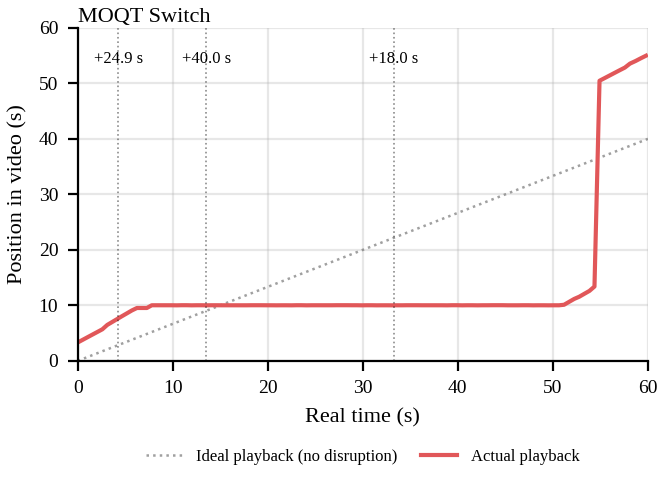
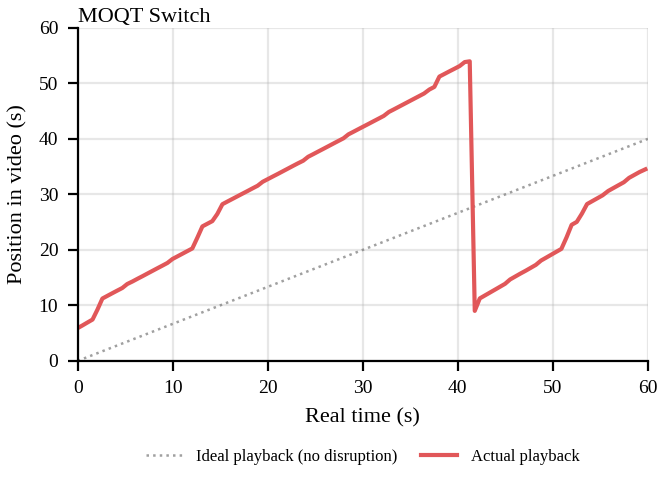
fix(client): coalesce duplicate Switches under multi-pending interleaving
Track the in-flight Switch's target track-name in AbrController so a second
ABR tick (or force-switch) can't fire a parallel Switch to the same target
while the relay is still delivering the first one. Pair this with a
per-target pendingSwitches Map in Player so each switch's discontinuity
context (playheadPTS, switchSentAt, framesAtSwitch) survives later switches
firing — preventing the "Switch K's playheadPTS paired against Switch J's
first-arriving frame" misattribution that broke the per-switch playhead-gap
invariant under rapid A→B→C transitions.

Also keep MOQtailClient's subscriptionAliasMap in lockstep with the Switch
control message: alias the new requestId to the still-valid old trackAlias
on send, then rebind to the real new trackAlias when SubscribeOk arrives.
Without this, any re-entry on the new requestId before the rebind callback
fires throws InternalError and the catch handler tears down the client.

Bumps SWITCH_TIMEOUT_MS from 3 s to 30 s so legitimately-slow segment
delivery on the lowest tier under bandwidth pressure (observed 17 s in the
E2 0.5 Mbps dip) doesn't trip the guard release while data is still in
flight. Simplifies buffer.ts's seek-across-gap recovery to a minimal walk
of post-current ranges; live-edge alignment is the catch-up loop's job.

diff --git a/apps/client-js/src/lib/buffer.ts b/apps/client-js/src/lib/buffer.ts
@@ -17,7 +17,6 @@
 import { logger } from '@/lib/logger';
 
 // MSE Buffer Configuration
-export const MSE_IMMEDIATE_SEEK_THRESHOLD = 0.1; // seconds
 export const DEFAULT_LIVE_EDGE_DELAY = 1.25; // seconds
 export const DEFAULT_LIVE_EDGE_TOLERANCE = 0.1; // seconds
 export const DEFAULT_BUFFER_CHECK_INTERVAL = 250; // milliseconds
@@ -243,51 +242,21 @@ class MSEBuffer {
     // Only consider seeking if we're very close to the end (within threshold)
     if (distanceToEnd > this.config.stallThreshold) return { seek: false };
 
-    // Check if there's a next buffered range
-    if (currentRangeIndex + 1 < buffered.length) {
-      for (let nextRange = currentRangeIndex + 1; nextRange < buffered.length; nextRange++) {
-        const nextRangeStart = buffered.start(currentRangeIndex + 1);
-        const gap = nextRangeStart - currentRangeEnd;
-
-        // If gap is too small, seek to next range immediately
-        if (gap < MSE_IMMEDIATE_SEEK_THRESHOLD) {
-          logger.info(
-            'buffer',
-            `[mseBuffer] Small gap of ${gap.toFixed(3)}s to next range, seeking immediately`,
-          );
-          return { seek: true, targetTime: nextRangeStart };
-        }
-
-        // Next range must have enough buffer to jump to
-        const nextRangeEnd = buffered.end(currentRangeIndex + 1);
-        const nextRangeDuration = nextRangeEnd - nextRangeStart;
-
-        if (nextRangeDuration < this.config.stallThreshold) {
-          logger.warn(
-            'buffer',
-            `[mseBuffer] Next range too short (${nextRangeDuration.toFixed(3)}s), not seeking`,
-          );
-          continue;
-        }
-
-        if (nextRangeDuration < this.config.liveEdgeDelay) {
-          logger.warn(
-            'buffer',
-            `[mseBuffer] Next range shorter than live edge delay (${nextRangeDuration.toFixed(
-              3,
-            )}s < ${this.config.liveEdgeDelay}s), not seeking`,
-          );
-          continue;
-        }
-
-        if (gap > 0) {
-          logger.warn(
-            'buffer',
-            `[mseBuffer] At buffer end with gap of ${gap.toFixed(3)}s, must jump to next range`,
-          );
-          return { seek: true, targetTime: nextRangeStart };
-        }
-      }
+    // Recovery: walk every range past the current one and seek to the first
+    // playable one. Stays minimal — live-edge alignment is the catch-up loop's
+    // job, not this function's.
+    for (let i = currentRangeIndex + 1; i < buffered.length; i++) {
+      const nextStart = buffered.start(i);
+      const nextEnd = buffered.end(i);
+      if (nextEnd - nextStart <= 0) continue;
+      const gap = nextStart - currentRangeEnd;
+      logger.info(
+        'buffer',
+        `[mseBuffer] Seeking across ${gap.toFixed(3)}s gap to range ${nextStart.toFixed(
+          3,
+        )}-${nextEnd.toFixed(3)}s`,
+      );
+      return { seek: true, targetTime: nextStart + 0.001 };
     }
 
     return { seek: false };

diff --git a/apps/client-js/src/lib/player.ts b/apps/client-js/src/lib/player.ts
@@ -134,7 +134,20 @@ interface MOQStreamStruct {
   requestId: bigint;
   tracker: GoodputTracker;
   lastGroupId: bigint;
-  pendingSwitch: PendingSwitch | null;
+  /**
+   * In-flight Switch contexts keyed by target trackName. Multiple Switches can
+   * be live at once (rapid ABR re-evaluation, or one-RTT cache-replay lag where
+   * Switch N+1 fires while Switch N's first frame hasn't decoded). The writer
+   * pairs each incoming object's track name to its OWN Switch context so the
+   * discontinuity record's `playheadPTS_ms` and `newStartPTS_ms` come from the
+   * SAME Switch — preventing the "Switch K's playheadPTS paired against Switch
+   * J's first-arriving frame" misattribution that breaks the per-switch
+   * playhead-gap invariant under multi-switch interleaving.
+   *
+   * Map identity also lets the writer cull older pendings when it applies a
+   * newer one (data for stale targets is dropped instead of seeking backward).
+   */
+  pendingSwitches: Map<string, PendingSwitch>;
   /** End PTS (ms) of the last appended segment from the active track. Updated before each appendBuffer call. Undefined until the first segment is appended. */
   lastAppendedEndPTS_ms: number | undefined;
   /** Set true after the first frame is rendered post-switch. Reset when pendingSwitch is set. Used by C5 (perceivedPauseMs). */
@@ -580,24 +593,22 @@ export class Player {
             // decode and stall MSE.
             const objectTrackName = new TextDecoder().decode(object.fullTrackName.name);
 
-            // Drop anything that isn't the current track or the pending
-            // switch target. Covers two cases:
-            //   1. Rapid ABR switching (A→B→C) where intermediate-track data
-            //      arrives after pendingSwitch was overwritten to C.
-            //   2. Old-track trailing packets delivered after a switch has
-            //      already activated and pendingSwitch was cleared.
-            if (
-              objectTrackName !== struct.trackName &&
-              objectTrackName !== struct.pendingSwitch?.trackName
-            ) {
+            // Drop anything that isn't the current track or one of the in-flight
+            // pending Switch targets. Per-target tracking (pendingSwitches map)
+            // means each Switch's context survives later Switches firing —
+            // critical when A→B→C fires rapidly: the writer might see B's data
+            // arrive after C was already requested, and we want B's context (not
+            // C's) when recording B's discontinuity.
+            const pendingForObject = struct.pendingSwitches.get(objectTrackName);
+            if (objectTrackName !== struct.trackName && !pendingForObject) {
               logger.info(
                 'media',
-                `Dropping stale track data (${objectTrackName}); current=${struct.trackName} pending=${struct.pendingSwitch?.trackName ?? 'none'}`,
+                `Dropping stale track data (${objectTrackName}); current=${struct.trackName} pending=[${[...struct.pendingSwitches.keys()].join(',') || 'none'}]`,
               );
               return;
             }
 
-            if (struct.pendingSwitch && objectTrackName === struct.pendingSwitch.trackName) {
+            if (pendingForObject) {
               const {
                 initData,
                 mimeType,
@@ -606,10 +617,17 @@ export class Player {
                 playheadPTS_ms,
                 switchSentAt,
                 framesAtSwitch,
-              } = struct.pendingSwitch;
+              } = pendingForObject;
               const fromTrack = struct.trackName; // capture BEFORE overwriting
               struct.trackName = newTrackName;
-              struct.pendingSwitch = null;
+              // Remove THIS switch and any OLDER pending switches whose data we
+              // never saw — applying their init now would seek backward in time
+              // (older switch's playhead target is by definition behind the
+              // playhead at the moment we applied this newer one). Their data,
+              // if it still arrives, is correctly dropped by the check above.
+              for (const [name, p] of struct.pendingSwitches) {
+                if (p.switchSentAt <= switchSentAt) struct.pendingSwitches.delete(name);
+              }
               struct.firstFrameAfterSwitchSeen = false; // reset for C5
               // Stash C5 state on sibling struct fields that survive the
               // pendingSwitch clear. The rVFC poll consumes these to compute
@@ -1090,7 +1108,7 @@ export class Player {
   abortPendingSwitch(): void {
     const videoStruct = this.#streams.find(s => this.catalog?.getRole(s.trackName) === 'video');
     if (!videoStruct) return;
-    videoStruct.pendingSwitch = null;
+    videoStruct.pendingSwitches.clear();
   }
 
   /**
@@ -1188,7 +1206,7 @@ export class Player {
       // Tracker is intentionally not reset — the previous-track bandwidth
       // estimate is still a valid indicator of network capacity. (dash.js
       // doesn't reset throughput on quality switches either.)
-      videoStruct.pendingSwitch = {
+      videoStruct.pendingSwitches.set(trackName, {
         trackName,
         initData: initData.buffer as ArrayBuffer,
         mimeType,
@@ -1196,7 +1214,7 @@ export class Player {
         playheadPTS_ms,
         switchSentAt,
         framesAtSwitch,
-      };
+      });
       videoStruct.firstFrameAfterSwitchSeen = false; // reset for next switch
     } catch (error) {
       logger.error('media', 'switchTrack: unexpected error', error);
@@ -1273,7 +1291,7 @@ export class Player {
         source: result.stream,
         tracker,
         lastGroupId: -1n,
-        pendingSwitch: null,
+        pendingSwitches: new Map(),
         lastAppendedEndPTS_ms: undefined,
       };
     }
@@ -1362,7 +1380,7 @@ export class Player {
       source: result.stream,
       tracker,
       lastGroupId: -1n,
-      pendingSwitch: null,
+      pendingSwitches: new Map(),
       lastAppendedEndPTS_ms: undefined,
     };
 

diff --git a/apps/client-js/src/lib/abr/AbrController.ts b/apps/client-js/src/lib/abr/AbrController.ts
@@ -70,11 +70,28 @@ export class AbrController {
   // timeout. Set to Date.now() + SWITCH_COOLDOWN_MS when SWITCH_TIMEOUT_MS
   // expires so the same infeasible switch isn't re-triggered immediately.
   #switchBackoffUntil = 0;
-  // Maximum time #switching may be held before being force-released. Long
-  // enough to cover normal switch landing under healthy conditions
-  // (typically < 1 GOP duration), short enough that ABR can re-evaluate
-  // before buffer fully drains.
-  static readonly SWITCH_TIMEOUT_MS = 3000;
+  // Track-name of the most recent in-flight Switch. Cleared only when a real
+  // new-track frame is decoded (`#pendingFrameAdvance && totalFrames moved`).
+  // SWITCH_TIMEOUT_MS releasing the #switching guard does NOT clear this:
+  // under bandwidth pressure (e.g. 0.5 Mbps with a 400k segment that takes
+  // ~6 s to arrive) the timeout fires before the legitimately-slow delivery
+  // completes, and re-firing the same Switch only piles up parallel
+  // subscriptions whose data lands out of order, breaking the per-switch
+  // playhead-gap invariant.
+  #inflightTrackName: string | null = null;
+  // Maximum time #switching may be held before being force-released. Must
+  // be longer than the worst-case legitimate slow-delivery time for a
+  // segment on the lowest-tier track at the lowest expected bandwidth,
+  // otherwise the timeout fires while delivery is still in progress, ABR
+  // re-evaluates, picks a (possibly different) target, and parallel Switch
+  // subscriptions pile up — the older one's first-arriving frame gets paired
+  // against the newer one's playheadPTS in the discontinuity record, breaking
+  // the aligned-switch playhead-gap invariant. Reserved for truly-stuck
+  // recovery (relay broken, subscription died) — NOT for "just slow."
+  // Observed worst slow-delivery in the E2 0.5 Mbps dip: ~17 s. 30 s leaves
+  // margin while still recovering from truly-stuck within the 60 s test
+  // window. Was 3000 (too aggressive — covered only "healthy" conditions).
+  static readonly SWITCH_TIMEOUT_MS = 30_000;
   // After a switch times out (init segment never arrived — typical under severe
   // packet loss or a fleeting bandwidth spike), hold off this long before
   // running rules again. Without the cooldown the ABR re-fires the same
@@ -150,6 +167,7 @@ export class AbrController {
     const m = this.#player.getMetrics();
     this.#framesAtSwitch = m.totalFrames;
     this.#pendingFrameAdvance = false;
+    this.#inflightTrackName = trackName;
     this.#recordHistory(m.activeTrack ?? '', trackName, 'manual', 0, 0);
     void this.#player.switchTrack(trackName);
   }
@@ -219,6 +237,7 @@ export class AbrController {
     if (this.#pendingFrameAdvance && totalFrames > this.#framesAtSwitch) {
       this.#switching = false;
       this.#pendingFrameAdvance = false;
+      this.#inflightTrackName = null;
     }
 
     // Switching guard timeout: if #switching has been held longer than
@@ -305,6 +324,14 @@ export class AbrController {
     const targetTrack = this.#tracks[targetIndex];
     if (!targetTrack) return;
 
+    // Suppress duplicates while a Switch to the same target is already on the
+    // wire. The relay can't deliver any faster; firing again only piles up
+    // parallel subscriptions whose first-arriving frame may be from an earlier
+    // Switch (older START_LOCATION_GROUP), producing a discontinuity record
+    // whose latest-Switch playheadPTS is compared against an earliest-arriving
+    // frame's PTS — breaking the per-switch playhead-gap invariant.
+    if (targetTrack.name === this.#inflightTrackName) return;
+
     // Determine switch reason
     const currentBitrate =
       activeTrackIndex >= 0 ? (this.#tracks[activeTrackIndex]?.bitrate ?? 0) : 0;
@@ -323,6 +350,7 @@ export class AbrController {
     this.#switchingStartTs = Date.now();
     this.#framesAtSwitch = totalFrames;
     this.#pendingFrameAdvance = false;
+    this.#inflightTrackName = targetTrack.name;
     this.#recordHistory(activeTrack ?? '', targetTrack.name, reason, bufferSeconds, fastEmaBps);
     // Update tracksize (Algorithm 1 lines 13/16): after upswitch, carry
     // forward the gap from new current to next-up; after downswitch,

diff --git a/libs/moqtail-ts/src/client/client.ts b/libs/moqtail-ts/src/client/client.ts
@@ -1193,6 +1193,15 @@ export class MOQtailClient {
       if (!parameters) parameters = new VersionSpecificParameters()
       const requestId = args.requestId ?? this.#nextClientRequestId
       this.requests.set(requestId, subscription)
+      // Keep subscriptionAliasMap in lockstep with requests. Until the new
+      // track's first subgroup arrives and the pendingStateUpdates callback
+      // below rebinds this entry, the new requestId aliases to the still-valid
+      // old trackAlias (subscription object is unchanged). Without this, any
+      // re-entry on `requestId` before the callback fires (another switch,
+      // subscribeUpdate, or unsubscribe) throws InternalError on the next
+      // subscriptionAliasMap.get(...) check — and the catch handler calls
+      // disconnect(), destroying the client.
+      this.subscriptionAliasMap.set(requestId, trackAlias)
 
       const msg = new Switch(requestId, fullTrackName, subscriptionRequestId, parameters.build())
       subscription.switch(fullTrackName, parameters.build())
@@ -1222,6 +1231,11 @@ export class MOQtailClient {
       } else {
         this.requestIdMap.removeMappingByRequestId(requestId)
         this.requests.delete(requestId)
+        // Undo the optimistic alias insert above — the new id never became
+        // a real subscription, so leaving it pointing at the old alias would
+        // make a future lookup resolve to a stale (or by-then-deleted)
+        // subscription.
+        this.subscriptionAliasMap.delete(requestId)
         return response
       }
     } catch (error) {